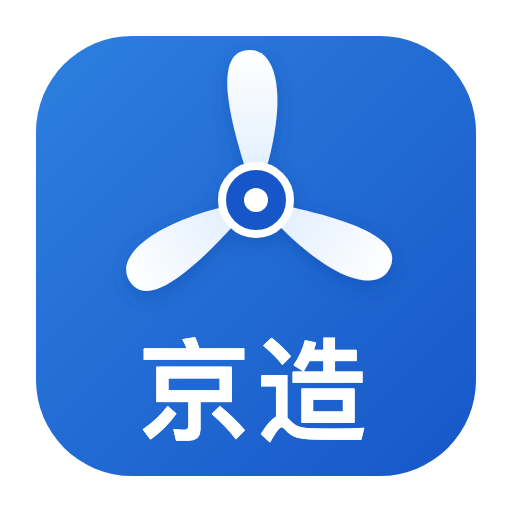
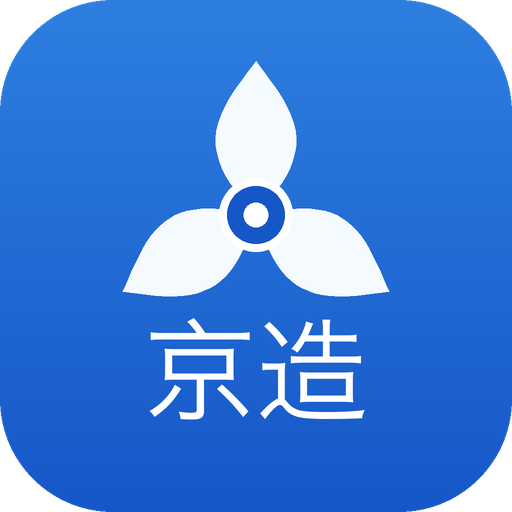
图标生成

diff --git a/brand/generate_icon.py b/brand/generate_icon.py
@@ -1,50 +1,137 @@
 #!/usr/bin/env python3
-"""Render brand icons from icon.svg into PNG files.
+"""Render brand icons using Pillow (precise, no browser needed).
 
-Uses headless Chrome to rasterize icon.svg (which references system CJK fonts
-for the "京造" text) into:
+Draws a rounded blue square that fills the whole canvas, a three-blade fan
+centered in the upper area, and the "京造" text below. Outputs:
 - icon.png     (256x256)  required by HA brands
 - icon@2x.png  (512x512)  hi-dpi
 
-Run:  python3 generate_icon.py
+Everything is drawn at a large supersampled size then downscaled for smooth
+edges. Run:  python3 generate_icon.py
 """
+import math
 import os
-import subprocess
-import sys
 
-CHROME = "/Applications/Google Chrome.app/Contents/MacOS/Google Chrome"
+from PIL import Image, ImageDraw, ImageFont
+
+# Work at 1024 then downscale for anti-aliasing
+SS = 1024
+
+BG_TOP = (46, 127, 224)     # #2E7FE0
+BG_BOTTOM = (22, 87, 200)   # #1657C8
+BLADE = (245, 250, 255)     # near white
+HUB_FILL = (22, 87, 200)    # #1657C8
+WHITE = (255, 255, 255)
 
 
-def render(svg_path, out_path, size):
-    cmd = [
-        CHROME,
-        "--headless",
-        "--disable-gpu",
-        "--force-device-scale-factor=1",
-        "--default-background-color=00000000",  # transparent background
-        f"--screenshot={out_path}",
-        f"--window-size={size},{size}",
-        f"file://{svg_path}",
+def _vertical_gradient(size, top, bottom):
+    grad = Image.new("RGB", (1, size), 0)
+    for y in range(size):
+        t = y / (size - 1)
+        r = int(top[0] + (bottom[0] - top[0]) * t)
+        g = int(top[1] + (bottom[1] - top[1]) * t)
+        b = int(top[2] + (bottom[2] - top[2]) * t)
+        grad.putpixel((0, y), (r, g, b))
+    return grad.resize((size, size))
+
+
+def _rounded_mask(size, radius):
+    mask = Image.new("L", (size, size), 0)
+    d = ImageDraw.Draw(mask)
+    d.rounded_rectangle([0, 0, size - 1, size - 1], radius=radius, fill=255)
+    return mask
+
+
+def _blade_path(cx, cy, length, width):
+    """Return polygon points for one teardrop-ish blade pointing up."""
+    pts = []
+    steps = 24
+    # outer curve (right side going up)
+    for i in range(steps + 1):
+        t = i / steps
+        # widen then taper
+        w = width * math.sin(math.pi * t) * (1 - 0.15 * t)
+        x = cx + w
+        y = cy - length * t
+        pts.append((x, y))
+    # tip rounding handled implicitly; come back along left side
+    for i in range(steps, -1, -1):
+        t = i / steps
+        w = width * math.sin(math.pi * t) * (1 - 0.15 * t)
+        x = cx - w
+        y = cy - length * t
+        pts.append((x, y))
+    return pts
+
+
+def _find_cjk_font(px):
+    candidates = [
+        "/System/Library/Fonts/PingFang.ttc",
+        "/System/Library/Fonts/Hiragino Sans GB.ttc",
+        "/System/Library/Fonts/STHeiti Medium.ttc",
+        "/Library/Fonts/Songti.ttc",
     ]
-    subprocess.run(cmd, check=True,
-                   stdout=subprocess.DEVNULL, stderr=subprocess.DEVNULL)
-    print(f"  Saved: {out_path} ({size}x{size}, {os.path.getsize(out_path)} bytes)")
+    for path in candidates:
+        if os.path.exists(path):
+            try:
+                return ImageFont.truetype(path, px)
+            except Exception:
+                continue
+    return ImageFont.load_default()
+
+
+def render_master():
+    img = Image.new("RGBA", (SS, SS), (0, 0, 0, 0))
+
+    # Background: gradient clipped to rounded rect
+    grad = _vertical_gradient(SS, BG_TOP, BG_BOTTOM).convert("RGBA")
+    mask = _rounded_mask(SS, radius=int(SS * 0.22))
+    img.paste(grad, (0, 0), mask)
+
+    draw = ImageDraw.Draw(img)
+
+    # Fan center (upper-center)
+    fcx, fcy = SS * 0.5, SS * 0.42
+    length = SS * 0.30
+    width = SS * 0.085
+
+    for angle in (0, 120, 240):
+        base = _blade_path(0, 0, length, width)
+        rad = math.radians(angle)
+        cosr, sinr = math.cos(rad), math.sin(rad)
+        rotated = [
+            (fcx + x * cosr - y * sinr, fcy + x * sinr + y * cosr)
+            for (x, y) in base
+        ]
+        draw.polygon(rotated, fill=BLADE)
+
+    # Hub
+    hr = SS * 0.072
+    draw.ellipse([fcx - hr, fcy - hr, fcx + hr, fcy + hr], fill=HUB_FILL)
+    draw.ellipse([fcx - hr, fcy - hr, fcx + hr, fcy + hr],
+                 outline=WHITE, width=int(SS * 0.016))
+    ir = SS * 0.024
+    draw.ellipse([fcx - ir, fcy - ir, fcx + ir, fcy + ir], fill=WHITE)
+
+    # Text "京造"
+    font = _find_cjk_font(int(SS * 0.22))
+    text = "京造"
+    tb = draw.textbbox((0, 0), text, font=font)
+    tw, th = tb[2] - tb[0], tb[3] - tb[1]
+    tx = (SS - tw) / 2 - tb[0]
+    ty = SS * 0.72 - th / 2 - tb[1]
+    draw.text((tx, ty), text, font=font, fill=WHITE)
+
+    return img
 
 
 def main():
     script_dir = os.path.dirname(os.path.abspath(__file__))
-    svg = os.path.join(script_dir, "icon.svg")
-
-    if not os.path.exists(svg):
-        sys.exit(f"icon.svg not found at {svg}")
-    if not os.path.exists(CHROME):
-        sys.exit("Google Chrome not found; install it or use another SVG rasterizer.")
-
+    master = render_master()
     for size, name in [(256, "icon.png"), (512, "icon@2x.png")]:
         out = os.path.join(script_dir, name)
-        print(f"Rendering {name} ({size}x{size})...")
-        render(svg, out, size)
-
+        master.resize((size, size), Image.LANCZOS).save(out)
+        print(f"  Saved: {out} ({size}x{size}, {os.path.getsize(out)} bytes)")
     print("Done!")
 
 
